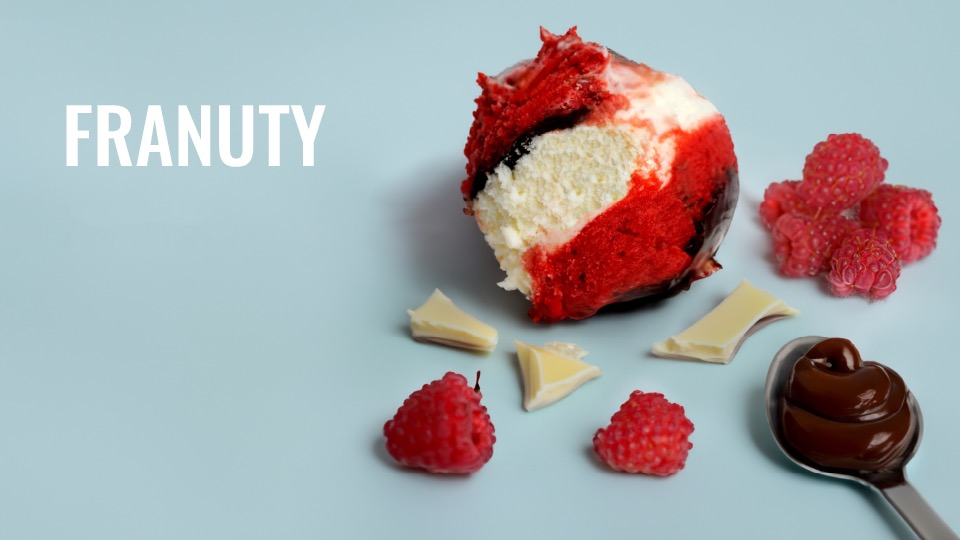
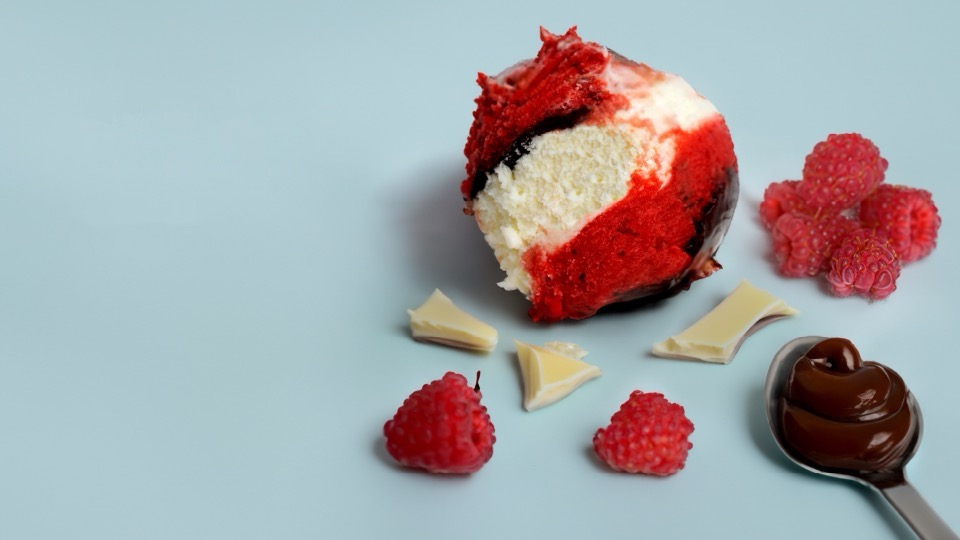
Cambios en el diseño de las letras

Changed region(s): [[0.0625, 0.1778, 0.3438, 0.3259]]

diff --git a/Microdesafio/sabores.html b/Microdesafio/sabores.html
@@ -20,7 +20,7 @@
                  </button>
                  <div class="collapse navbar-collapse" id="navbarNav">
                      <div class="navbar-nav">
-                           <a href="./index.html" class="btn btn-outline-light me-2">Inicio</a>
+                           <a href="../index.html" class="btn btn-outline-light me-2">Inicio</a>
                            <a href="./sabores.html" class="btn btn-outline-light me-2">Sabores</a>
                            <a href="./postres.html" class="btn btn-outline-light me-2">Postres</a>
                            <a href="./cafeteria.html" class="btn btn-outline-light me-2">Cafetería</a>
@@ -61,14 +61,14 @@
                 <div class="main-cajas-contenido">
                     <img src="./img/sabores/pino-pinguino.jpeg" alt="Helado de Pino Pingüino | Crema Americana con Nutella." class="pino-lemon-img">
                 </div>
-                <div class="main-cajas-contenido">
-                    <h2 class="pino-lemon">Pino Pingüino</h2>
+                <div class="main-cajas-contenido" id="pino">
+                    <h2 class="pino-lemon">PINO PINGÜINO</h2>
                     <p class="pino-lemon">Una capa de crema americana bañada en una deliciosa Nutella te espera para conquistar tu paladar. Este sabor único y artesanal es ideal para los amantes de lo dulce y lo rico.</p>
                 </div>
             </div>
             <div class="sabores-cajas">
                 <div class="main-cajas-contenido">
-                    <h2 class="franuty-pretto">Franuty</h2>
+                    <h2 class="franuty-pretto">FRANUTY</h2>
                     <p class="franuty-pretto">Una base refrescante de frambuesa al agua, cubierta con una capa de exquisita nutella. Sabor perfecto para quienes buscan una mezcla irresistible de frescura y dulzura.</p>
                 </div>
                 <div class="main-cajas-contenido">
@@ -77,7 +77,7 @@
             </div>
 
             <div class="caja-scalo">
-                    <h2 class="scalo-titulo">Dulce de Leche Scaloneta</h2>
+                    <h2 class="scalo-titulo">DULCE DE LECHE SCALONETA</h2>
                 <div class="img-scalo">
                     <img src="./img/sabores/scaloneta.jpeg" alt="" class="img-scalo">
                 </div>
@@ -89,13 +89,13 @@
                     <img src="./img/sabores/lemon-cookies.jpeg" alt="" class="pino-lemon-img">
                 </div>
                 <div class="main-cajas-contenido">
-                    <h2 class="pino-lemon">Lemon cookies</h2>
+                    <h2 class="pino-lemon">LEMON COOKIES</h2>
                     <p class="pino-lemon">Una suave vainilla con un toque de limón, combinada con crocantes galletitas de limón de la famosa cafetería Havanna. Sabor refrescante y artesanal ideal para quienes les gusta lo cítrico y dulce.</p>
                 </div>
             </div>
             <div class="sabores-cajas">
                 <div class="main-cajas-contenido">
-                    <h2 class="franuty-pretto">Oro Pretto</h2>
+                    <h2 class="franuty-pretto">ORO PRETTO</h2>
                     <p class="franuty-pretto">Una intensa mezcla de chocolate amargo 80% cacao con un toque de frescura aportado por el 20% de agua. Ideal para los verdaderos amantes del chocolate puro.</p>
                 </div>
                 <div class="main-cajas-contenido">

diff --git a/Microdesafio/estilos/style.css b/Microdesafio/estilos/style.css
@@ -4,8 +4,19 @@
     padding: 0;
     color: #BF9E60 !important;
     max-width: 100%;
+    font-family: "Moderustic", sans-serif;
 }
-/*Posición y tamaño del logo. */
+p{
+    font-weight: 600 !important;
+}
+h1{
+    font-weight: 800 !important;
+}
+h2, h3{
+    font-weight: 700 !important;
+}
+
+/*Posición y tamaño del header. */
 .navbar{
     background-color: #8c6e49e1;
     z-index: 1000;
@@ -20,6 +31,12 @@
 }
 #carouselExampleFade{
     margin-bottom: 20px;
+}
+.titulo-inicio{
+    letter-spacing: 5px;
+}
+.parrafo-inicio{
+    margin: 0;
 }
 
 @media (min-width:320px) and (max-width:768px){
@@ -519,6 +536,7 @@
         }
     }
 }
+
 @media (min-width:1400px){
     body{
         /*Inicio*/
@@ -601,9 +619,13 @@
         }
         .pino-lemon{
             margin: 20px;
+            text-align: start;
+        }
+        h2.pino-lemon, h2.franuty-pretto{
+            text-align: center;
         }
         .franuty-pretto{
-            text-align: center;
+            text-align: end;
             margin: 20px;
         }
         .franuty-pretto-img{
@@ -653,6 +675,9 @@
         .tarjeta-postres img{
             width: 100%;
             height: 550px;
+        }
+        .tarjeta-postres p{
+            margin: 10px 20px;
         }
         .linea-divisora{
             width: 90%;
@@ -712,24 +737,6 @@
     }
 }
 
-    /* Dropdown */
-    summary{
-        text-align: center;
-        padding: 25px;
-    }
-    details{
-        text-align: center;
-    }
-    details[open] summary{
-        background-color: #8C6E49;
-    }
-
-    details summary::-webkit-details-marker {
-        display: none;
-    }
-    .sabores{
-        text-align: center;
-    }
     li{
         padding: 15px;
     }
@@ -748,7 +755,8 @@
         width: 100%;
         }
             
-    /* Pie de pagina */ 
+    
+        /* Pie de pagina */ 
     footer{
         justify-content: center;
         align-items: center;

diff --git a/index.html b/index.html
@@ -7,7 +7,10 @@
     <link rel="icon" href="./Microdesafio/img/icono-transparente .png" type="image/x-icon">
     <link rel="stylesheet" href="./Microdesafio/estilos/style.css">
     <link href="https://cdn.jsdelivr.net/npm/bootstrap@5.3.3/dist/css/bootstrap.min.css" rel="stylesheet" integrity="sha384-QWTKZyjpPEjISv5WaRU9OFeRpok6YctnYmDr5pNlyT2bRjXh0JMhjY6hW+ALEwIH" crossorigin="anonymous">
-</head>
+    <link rel="preconnect" href="https://fonts.googleapis.com">
+    <link rel="preconnect" href="https://fonts.gstatic.com" crossorigin>
+    <link href="https://fonts.googleapis.com/css2?family=Moderustic:wght@300..800&display=swap" rel="stylesheet">
+  </head>
 
 <body>    
     <header>
@@ -58,7 +61,7 @@
             <!-- Introducción -->
             <section class="cajas">
                 <div class="caja">
-                    <h1>PÓRTICO</h1>
+                    <h1 class="titulo-inicio">PÓRTICO</h1>
                 </div>
                 <div class="caja">
                     <h3>Haciendo Buon Gelato</h3>
@@ -189,10 +192,10 @@
         <!-- Horarios -->
             <section class="cajas">
                 <div class="caja">
-                    <p>Para pedidos grandes llamar con anticipacion para asegurar su reserva.</p>
+                    <p class="parrafo-inicio">Para pedidos grandes llamar con anticipacion para asegurar su reserva.</p>
                 </div>
                 <div class="caja">
-                    <p>1111-1111</p>
+                    <p class="parrafo-inicio">1111-1111</p>
                 </div>
                 <div class="caja">
                     <p>Delivery</p>

diff --git a/Microdesafio/cafeteria.html b/Microdesafio/cafeteria.html
@@ -20,7 +20,7 @@
                  </button>
                  <div class="collapse navbar-collapse" id="navbarNav">
                      <div class="navbar-nav">
-                           <a href="./index.html" class="btn btn-outline-light me-2">Inicio</a>
+                           <a href="../index.html" class="btn btn-outline-light me-2">Inicio</a>
                            <a href="./sabores.html" class="btn btn-outline-light me-2">Sabores</a>
                            <a href="./postres.html" class="btn btn-outline-light me-2">Postres</a>
                            <a href="./cafeteria.html" class="btn btn-outline-light me-2">Cafetería</a>

diff --git a/Microdesafio/postres.html b/Microdesafio/postres.html
@@ -20,7 +20,7 @@
              </button>
              <div class="collapse navbar-collapse" id="navbarNav">
                  <div class="navbar-nav">
-                       <a href="./index.html" class="btn btn-outline-light me-2">Inicio</a>
+                       <a href="../index.html" class="btn btn-outline-light me-2">Inicio</a>
                        <a href="./sabores.html" class="btn btn-outline-light me-2">Sabores</a>
                        <a href="./postres.html" class="btn btn-outline-light me-2">Postres</a>
                        <a href="./cafeteria.html" class="btn btn-outline-light me-2">Cafetería</a>

diff --git a/Microdesafio/nosotros.html b/Microdesafio/nosotros.html
@@ -19,7 +19,7 @@
          </button>
          <div class="collapse navbar-collapse" id="navbarNav">
              <div class="navbar-nav">
-                   <a href="./index.html" class="btn btn-outline-light me-2">Inicio</a>
+                   <a href="../index.html" class="btn btn-outline-light me-2">Inicio</a>
                    <a href="./sabores.html" class="btn btn-outline-light me-2">Sabores</a>
                    <a href="./postres.html" class="btn btn-outline-light me-2">Postres</a>
                    <a href="./cafeteria.html" class="btn btn-outline-light me-2">Cafetería</a>
